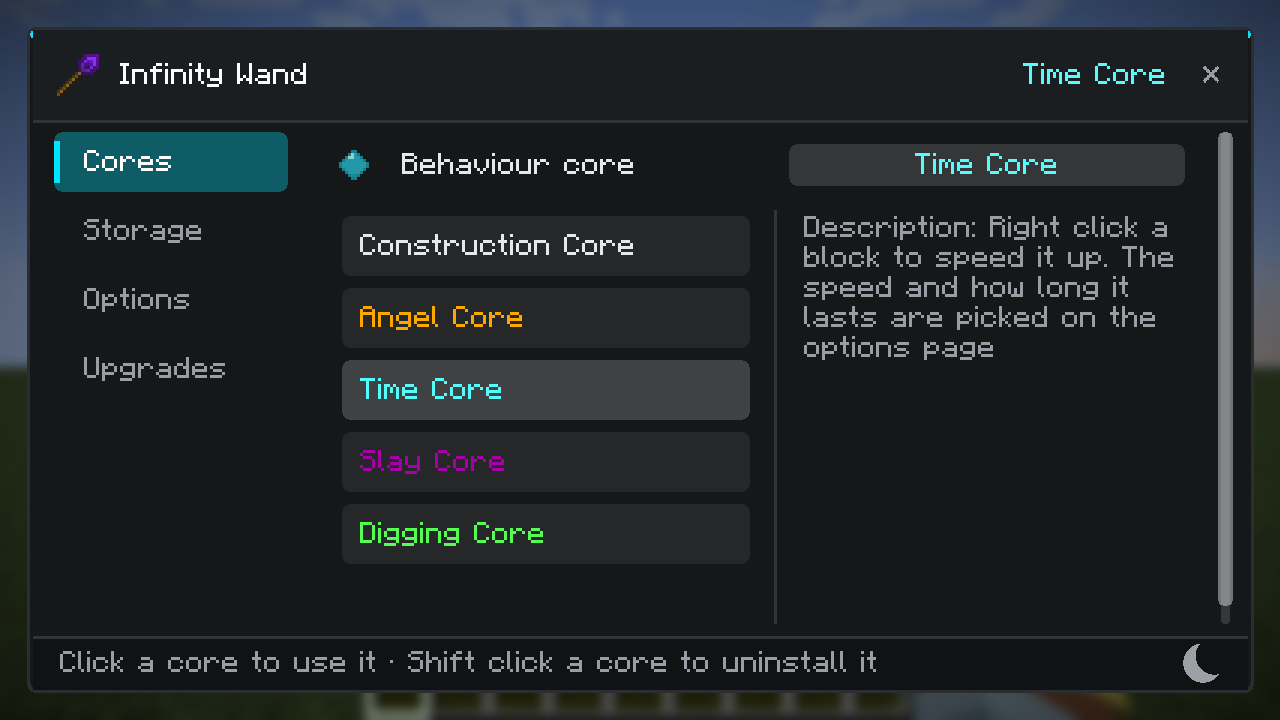
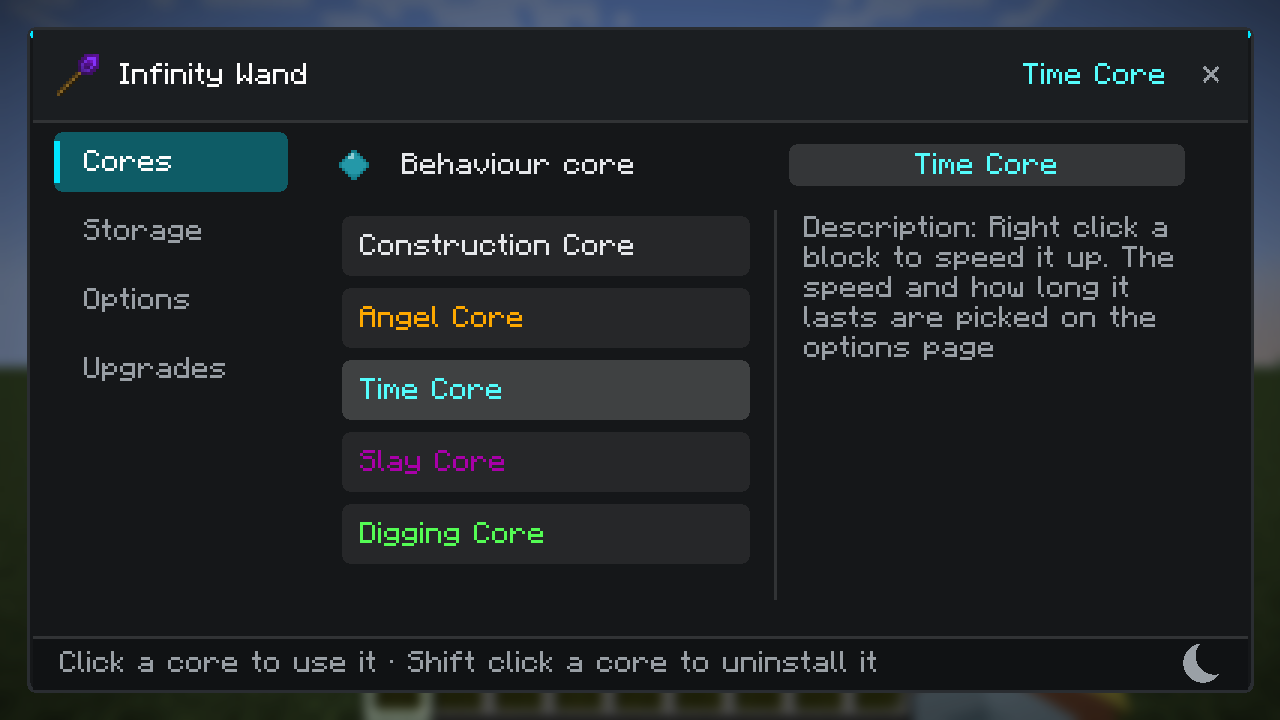
核心页：扣掉两栏块内边距，整页不再出现滚动条（v2.16.40）
- roomLeft() 在扣除已用行高与行间距之外，再让出两栏块自身的 8px 内边距与 4px 余量
- 实测核心页右侧整页滚动条消失，只有左栏列表需要时才出现它自己的滚动条
- 截图更新 docs/wand-screen-cores.png

Changed region(s): [[0.9375, 0.1833, 0.9688, 0.8556]]

diff --git a/src/main/java/dev/polaris_light/constructionwand/client/ScreenWand.java b/src/main/java/dev/polaris_light/constructionwand/client/ScreenWand.java
@@ -464,8 +464,9 @@ public class ScreenWand extends Screen
         for(WandRow row : rows) {
             used += row.height() + ROW_GAP;
         }
-        // A few pixels are kept back: an exact fit would leave the page scrollbar showing for two pixels.
-        return Math.max(WandRow.ROW_HEIGHT, contentHeightPixels - used - ROW_GAP - 6);
+        // The block adds its own padding around the window it is given, and the page counts a gap after it:
+        // both come off here, or the page ends two pixels too tall and shows its scrollbar for nothing.
+        return Math.max(WandRow.ROW_HEIGHT, contentHeightPixels - used - ROW_GAP - 12);
     }
 
     private WandRow corePicker(WandUpgradesSelectable<IWandCore> option, int fill) {

diff --git a/README-PLUS.md b/README-PLUS.md
@@ -28,6 +28,17 @@
 - `WandData.writeRoot/removeRoot/update`：同样只对手杖生效，任何漏网调用都写不进去。
 
 实测：手持 60 石头右键方块后 `components={…}` 里**没有** `custom_data`；手杖自己仍正常带 `wand_options`。
+## 核心页：整页不再出现滚动条（2.16.40）
+
+上一版铺满窗口后，**整页**在面板最右边又出现了滚动条——原因是两栏块自身在给的窗口高度上还有 8px 内边距（`height()` 里 `viewport + 8`），
+而行间距又被计了一次，于是内容比视口高 2px，`Ui.scrollBar` 就把它画了出来。现在 `roomLeft()` 一并扣掉块内边距与行间距：
+
+```java
+return Math.max(WandRow.ROW_HEIGHT, contentHeightPixels - used - ROW_GAP - 12);
+```
+
+实测：核心页面板右侧**不再有整页滚动条**，只有左栏列表需要时才出现它自己的滚动条（分割线左侧）。
+
 ## 核心页：窗口保持高、内容铺满整个窗口（2.16.39）
 
 上一版把窗口按内容收高，结果整个面板变得很扁。改回**固定高度**（`layout()` 里身高逻辑恢复：可用高度的 4/5，夹在 270–`MAX_PANEL_HEIGHT`），
